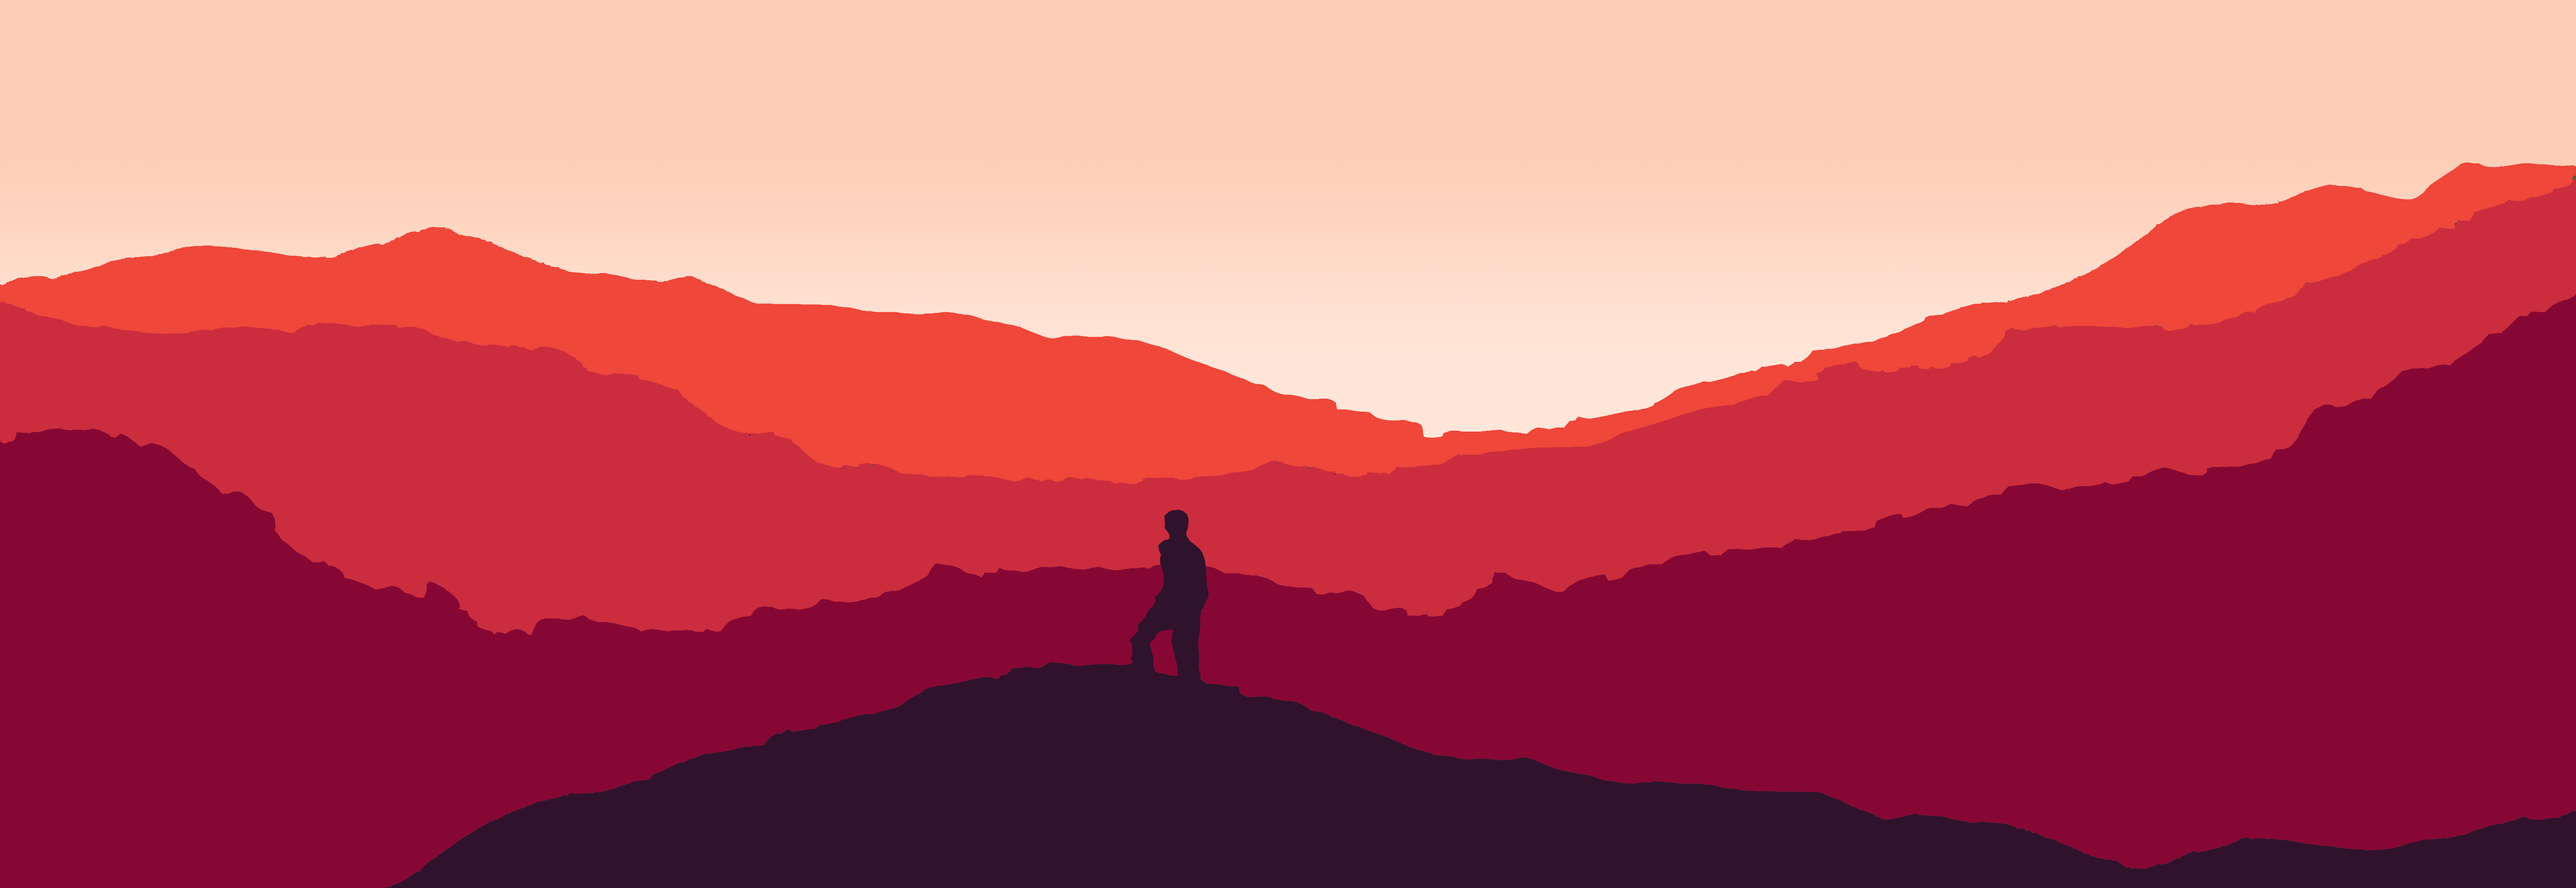
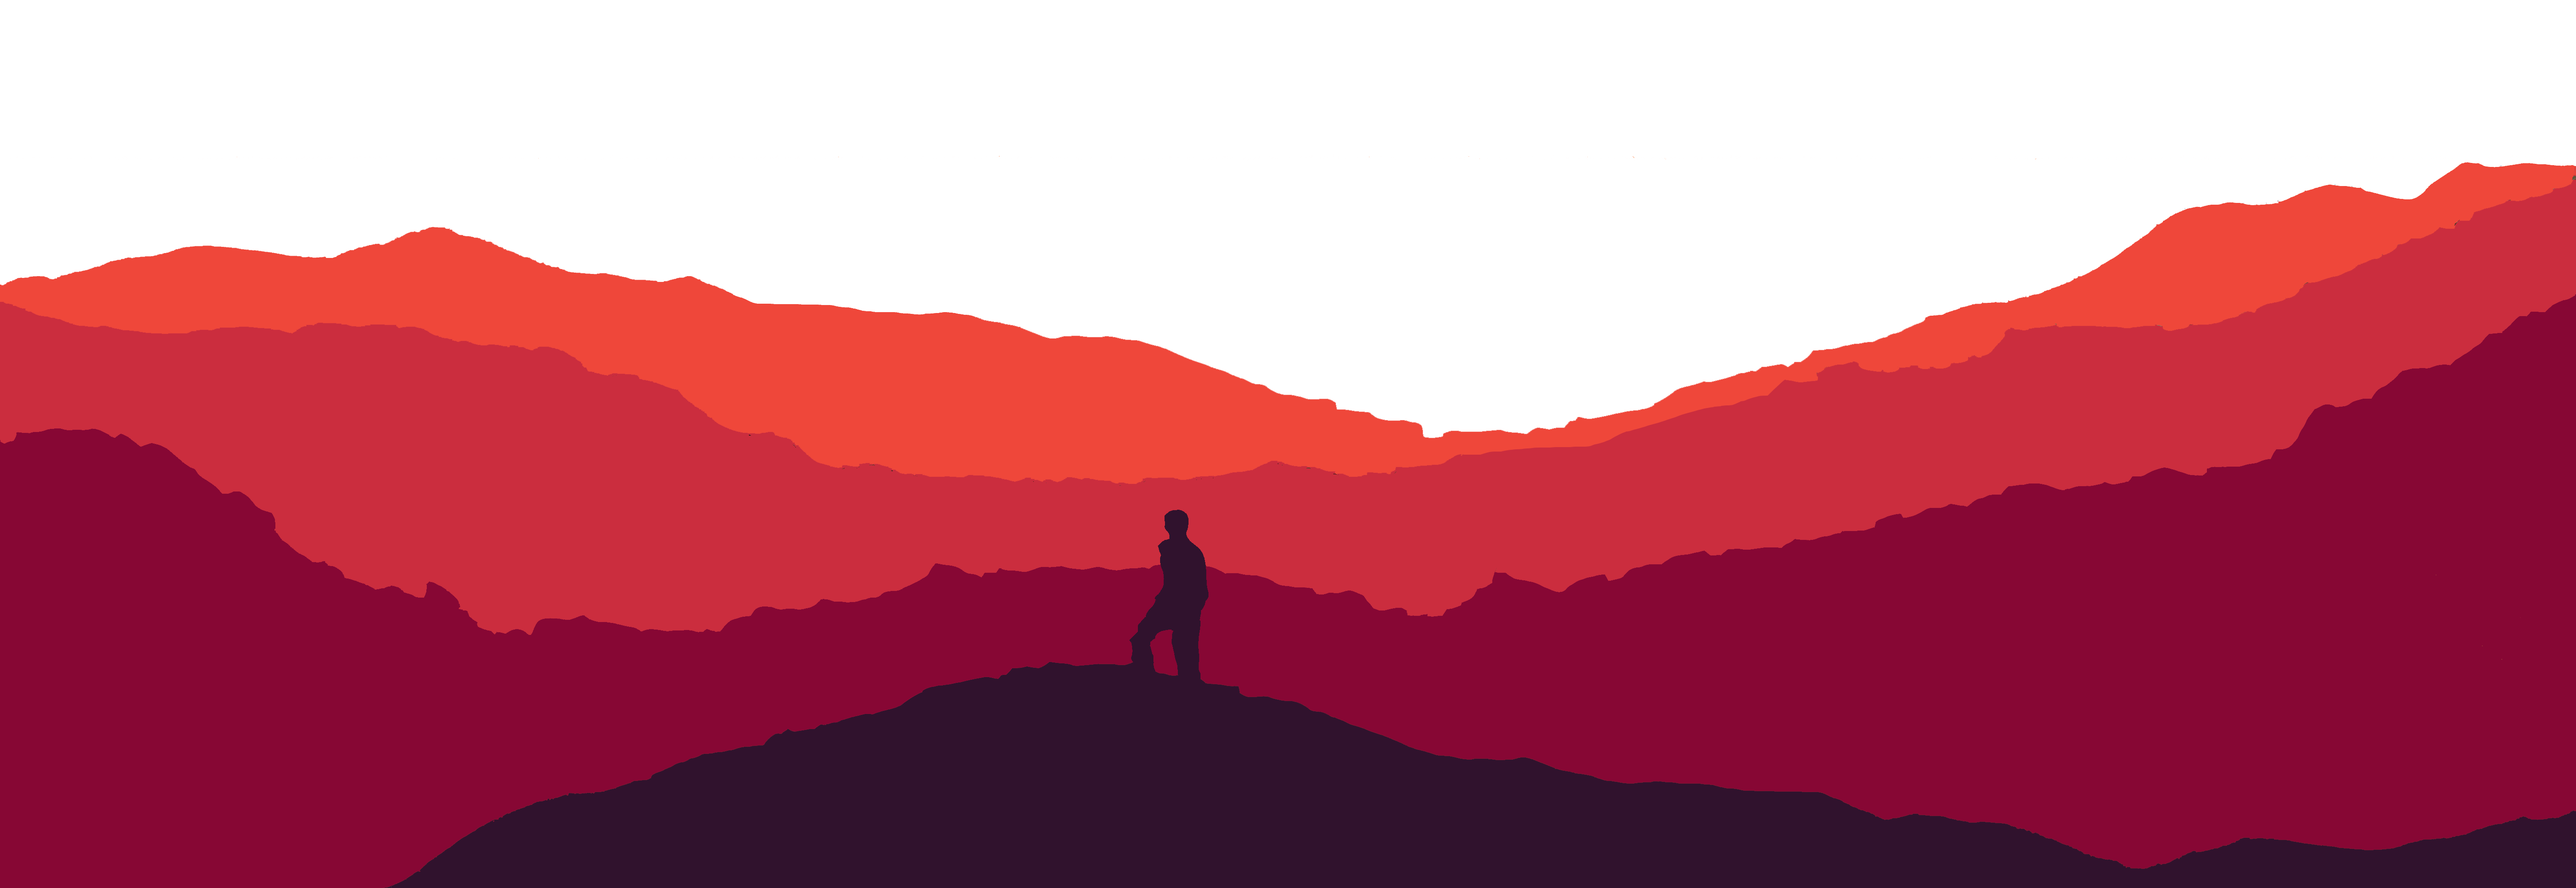
More changes that I don't feel worth listing

diff --git a/index.html b/index.html
@@ -4,6 +4,7 @@
         <title>About Me</title>
         <link rel="stylesheet" type="text/css" href="style.css">
         <link href="https://fonts.googleapis.com/css?family=Montserrat|Oswald:700" rel="stylesheet">
+        <script src="dynamic_background.js"></script>
     </head>
     <body>
         <div>
@@ -18,7 +19,7 @@
         <p>Hi, my name is Daniel and I am a British student with a passion for software development and a slight aptitude for design. I currently specialize in full-stack webapp development but my interest lies within neural networks and machine learning. For this reason, I have self-taught myself the principles behind Artificial Neural Networks and Convolutional Neural Networks.</p>
         <hr>
         <h2>Current Projects</h2>
-        <p>Below is a list of projects I have worked on:</p>
+        <p>Below are some projects I have worked on over the years:</p>
         <ul id="current-projects">
             <li class="project"><a href="https://github.com/dob9601/CollaboDev" target="_blank">
                 <div>
@@ -26,7 +27,15 @@
                     <p>CollaboDev</p>
                 </div>
             </a></li>
+            <li class="project"><a href="" target="_blank">
+                <div>
+                    <img src="project_logos/neurogrow.png">
+                    <p>Neurogrow</p>
+                </div>
+            </a></li>
         </ul>
+        <hr>
+        <h2>Find Me Online</h2>
         <hr>
         <p id="footer-text"><i>Feel free to <a href="mailto:dob9601@gmail.com?subject=About%20Me%20%7C%20Query">contact me</a> with any queries at dob9601@gmail.com</a></i></p>
         <img id="footer-image" src="footer.png">

diff --git a/style.css b/style.css
@@ -1,8 +1,16 @@
-html,
-body {
-    width: 100%;
+html {
     height: 100%;
     margin: 0;
+}
+
+body {
+    margin: 0;
+    min-height: 100%;
+    margin-top: 20px;
+    background-color: #feceb7;
+    font-family: 'Montserrat', sans-serif;    
+    color: #ef4539;
+    text-align: center;
 }
 
 h1,
@@ -57,14 +65,6 @@ hr {
     }
 }
 
-body {
-    margin-top: 20px;
-    background-color: #feceb7;
-    font-family: 'Montserrat', sans-serif;    
-    color: #ef4539;
-    text-align: center;
-}
-
 #footer-image {
     width: 100%;
     display: block;
@@ -85,7 +85,6 @@ body {
     display: inline-block;
     margin: auto 5px;
     transition: background-color 500ms cubic-bezier(0.45, 0.05, 0.55, 0.95);
-    text-decoration: none !important;
 }
 
 .project:hover {
